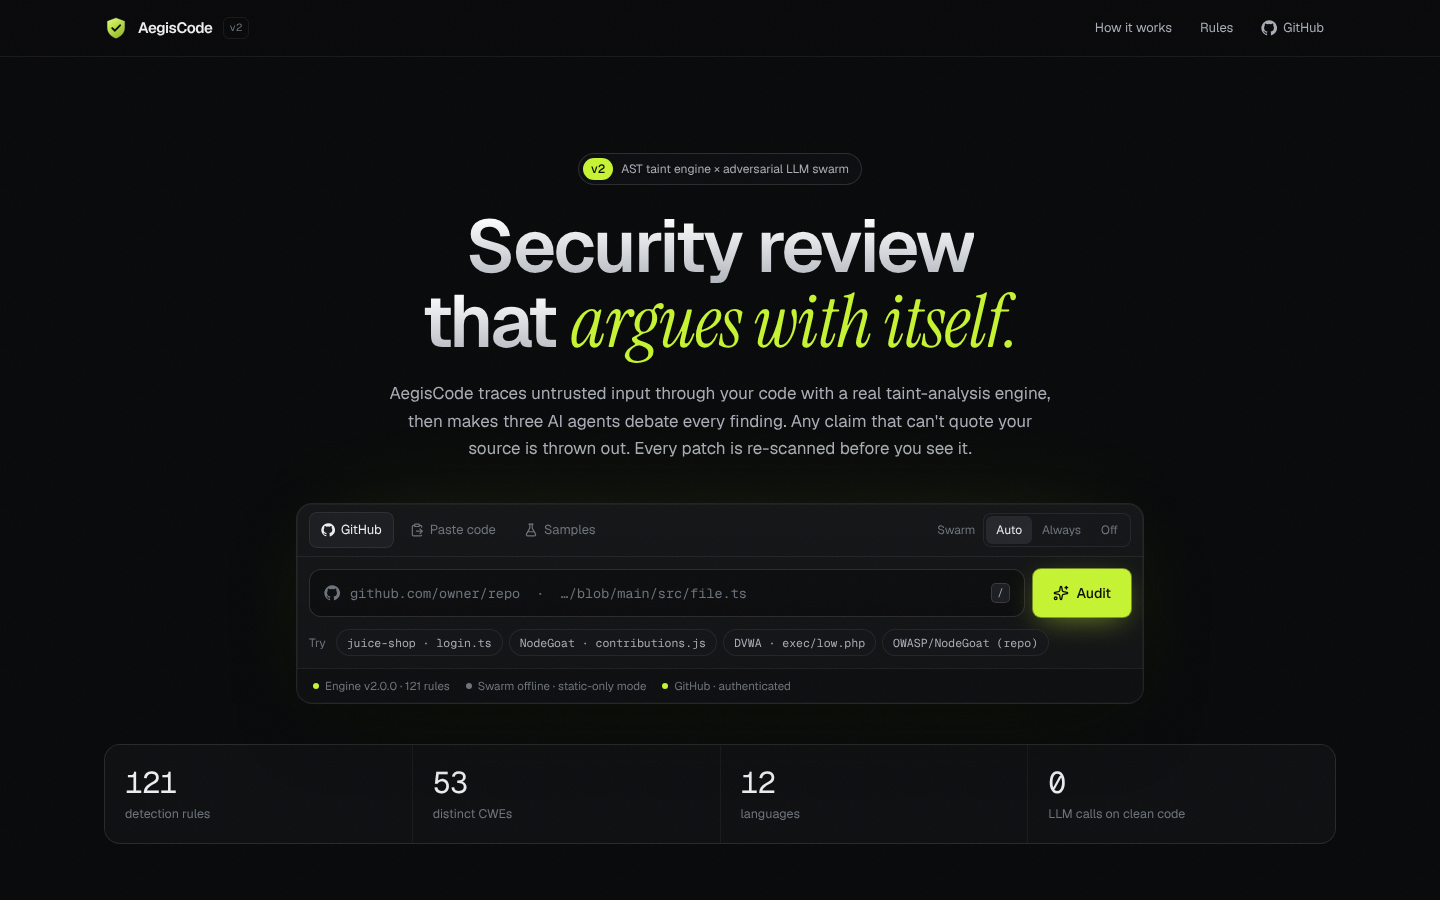
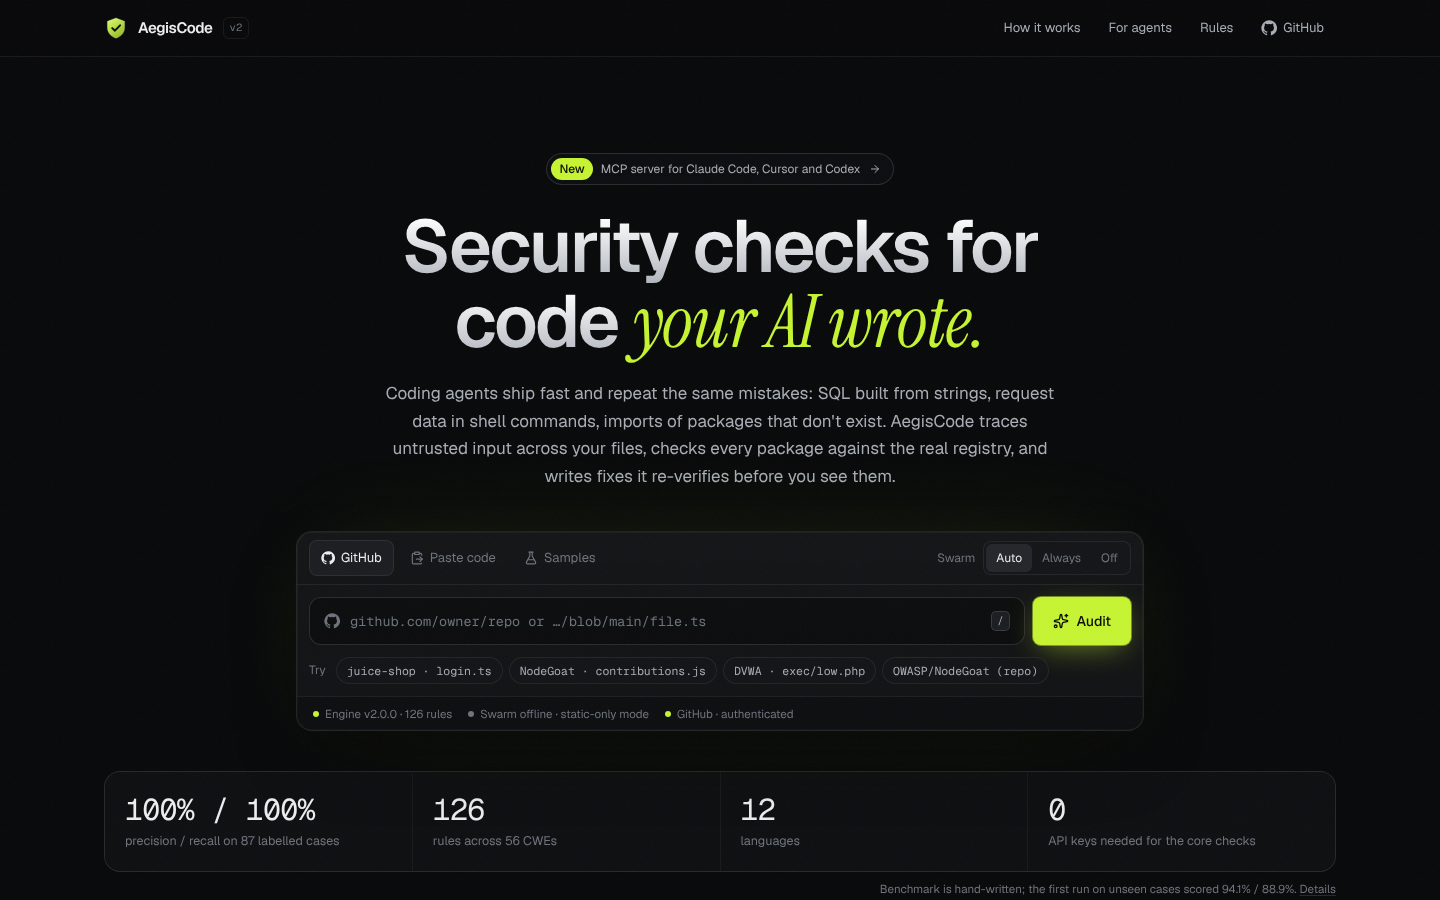
update README and screenshots

diff --git a/README.md b/README.md
@@ -4,57 +4,166 @@
 
 # AegisCode
 
-Security review that argues with itself.
+Security checks for code your AI wrote.
 
 [![CI](https://github.com/Wali05/AegisCode/actions/workflows/ci.yml/badge.svg)](https://github.com/Wali05/AegisCode/actions/workflows/ci.yml)
 ![Next.js 16](https://img.shields.io/badge/Next.js-16-black?logo=next.js)
 ![TypeScript](https://img.shields.io/badge/TypeScript-strict-3178c6?logo=typescript&logoColor=white)
+![MCP](https://img.shields.io/badge/MCP-server-555)
 ![License](https://img.shields.io/badge/license-MIT-555)
 
 <img src="docs/screenshots/landing.png" alt="AegisCode home page" width="900" />
 
 </div>
 
-AegisCode is a code security scanner. You give it a GitHub file, a whole repo, or some pasted code, and it tells you what's exploitable, how the attacker's input gets there, and how to fix it.
+Most of the code I write now starts life in Claude Code or Cursor. It's fast, and it's usually fine, but the mistakes these agents make are always the same few: a SQL string built with `+`, a request field dropped into `exec`, a redirect to whatever `?next=` says, and every so often an import of a package that doesn't exist. That last one is worse than it sounds. People register those made-up names on npm and wait for someone to install them (it's called slopsquatting).
 
-The first version of this project was basically a prompt: fetch a file, send it to Gemini three times, print whatever came back. It looked impressive in a demo, but the output had made-up line numbers and confident claims about code that didn't exist. So I rewrote it around a simple rule: **the model only gets to argue about evidence the code itself can prove.**
+AegisCode is the check I wanted between the agent and the commit. It's a static analyser that follows untrusted input across files, checks every new import against the real npm and PyPI registries, and only suggests a fix after re-scanning the patched code to confirm the issue is actually gone. It runs as an **MCP server** your agent can call, a **pre-commit hook**, a **CI step**, and a **web app** for looking at any GitHub repo.
 
-## How it works
+It started as a weekend "send the file to Gemini" project. The output looked impressive until you checked it: line numbers that didn't exist, confident claims about code that wasn't there. So I rebuilt it around one rule: **anything it reports has to be something the code itself can prove.** The analyser does the work. The language model is optional, and it can only argue about findings the analyser already has evidence for.
 
-There are four stages:
+## What it does
 
-1. **Static analysis.** A real analyser, no AI involved. It parses the code with the TypeScript compiler and tracks untrusted input (`req.query`, `request.json()`, `location.hash`, …) until it hits something dangerous (`db.query`, `exec`, `fetch`, `innerHTML`, …). It follows values through variables, string building, callbacks and calls into other functions in the same file, so a finding comes with the full path, not just a line number. On top of that there are ~120 pattern rules across 12 languages, a secret scanner, a dependency check against OSV.dev, and some complexity and performance checks.
-2. **Triage.** A small, transparent scoring model looks at what the analyser found and decides whether it's worth spending LLM calls on the file. Clean files never touch a model. The UI shows every signal and its weight, so you can see why.
-3. **The debate (optional).** If a Gemini key is configured, three agents go through the findings:
-   - the **Critic** tries to break the code and has to quote the exact lines it's talking about,
-   - the **Defender** pushes back on false positives and proposes fixes,
-   - the **Judge** rules on each claim and writes a patched version of the file.
+### Follows data across files
 
-   Before the debate starts, every quote the Critic made is checked against the real file. If the code it quoted isn't there, the claim is thrown out. The UI marks those as "hallucination blocked".
-4. **Verification.** The Judge's patch gets compiled and re-scanned by the same analyser, so the before/after score is measured rather than taken on trust.
+The analyser parses JS/TS with the TypeScript compiler and tracks values from where an attacker controls them (`req.query`, `request.json()`, `location.hash`, `process.argv`, …) to where they become dangerous (`db.query`, `exec`, `fetch`, `innerHTML`, `res.redirect`, …). It goes through variables, string building, callbacks, class fields and function calls, and it follows imports: ES modules, `require`, default exports, aliases, and barrel files that re-export from somewhere else.
 
-Everything streams to the browser as it happens over server-sent events, so the progress you see is the real pipeline.
+```
+api.ts      app.get("/s", async (req, res) => res.json(await search(req.query.q)));
+service.ts  return run("SELECT * FROM docs WHERE body LIKE '%" + q + "%'");
+repo.ts     return pool.query(sql);
+```
+
+```
+CRITICAL SQL injection: HTTP request input (from api.ts) → line 2
+         repo.ts:2  AEG-TAINT-SQL  CWE-89  conf 77%
+         api.ts:2 HTTP request input → api.ts:2 passed to search() in service.ts
+         → service.ts:3 concatenated into string → service.ts:3 passed to run() in repo.ts
+         → L2 reaches sql injection sink
+```
+
+It also understands the checks people actually write before using input: allowlists (`ALLOWED.has(x)`), anchored regexes, `typeof` checks, equality against constants, `startsWith("/")` on paths, `isValidX()` and `validateX()` helpers, and ternaries. If the dangerous call is only reachable after one of those, it isn't reported. This removed most of the false positives I was getting from real projects.
+
+Python and PHP use a simpler line-by-line version of the same idea. Go, Java, Ruby, C#, Rust, C/C++ and shell get pattern rules.
+
+### Catches packages that don't exist
+
+Every import and manifest entry that isn't a well-known package gets looked up on npm or PyPI. It flags:
+
+| Rule | What it means |
+|---|---|
+| `AEG-PKG-001` | The package doesn't exist. Almost always an invented name. |
+| `AEG-PKG-002` | The name is one or two edits away from a popular package (`lodahs`, `reqeusts`, `expresss`). |
+| `AEG-PKG-003` | The first release was less than 30 days ago. |
+| `AEG-PKG-004` | The package runs a script when it's installed. |
+| `AEG-PKG-005` | The version is deprecated or yanked. |
+
+If the registry can't be reached, those packages are listed as "not checked", not as fine. Vulnerable versions of real packages are a separate check against OSV.dev, with CVSS scores and the version that fixes each one.
+
+<img src="docs/screenshots/supply.png" alt="Supply chain tab" width="900" />
+
+### Suggests fixes, and checks them first
+
+For the common cases there's a fix: parameterised SQL, `textContent` instead of `innerHTML`, `path.basename` for file paths, `String()` around Mongo filter values, local-only redirects, and turning TLS verification back on. Each fix is applied to a copy of the file, which is then scanned again. It's only shown as verified if the issue is gone from that line *and* nothing new appeared. The fixers are deliberately conservative: if the SQL isn't a plain query string, or the "user input" is a table name in an `ORDER BY`, there's no fix, because the honest answer there is "rewrite this".
+
+<img src="docs/screenshots/fix.png" alt="A finding with a verified fix" width="900" />
+
+`aegis scan --fix` applies the verified ones to your files.
+
+### Only reports what you just added
+
+Nobody fixes 300 old findings before their next commit, so the agent-facing modes only report issues the current change introduces. `--staged`, `--changed` and `--since main` scan the changed files plus the local files they import (so a flow that crosses into an unchanged helper still shows up), then compare against the same files before the change. Findings are matched on rule, file and the text of the line rather than the line number, so moving code around doesn't make old issues look new. For a whole-repo scan you can save a baseline once and compare against that.
+
+### The rest
+
+- **Secrets:** AWS, GitHub, Stripe, OpenAI, Anthropic, Slack and private keys, plus an entropy check on anything assigned to `password`, `token`, `apiKey` and similar. Values are masked before they reach a report.
+- **Pattern rules:** 126 rules in total, covering disabled TLS checks, weak crypto, `pickle.loads`, `shell=True`, Flask debug mode, wildcard CORS, `gets()` and so on. Every rule maps to a CWE and to the OWASP Top 10 (2025). The full list is at `/rules` in the app.
+- **Code health:** O(n²) lookups in loops, `await` in loops, caches that grow forever, React effects without cleanup, and functions too complex to review.
+- **Optional AI review:** with a Gemini key, three agents go over the findings in the web app. A Critic attacks the code, a Defender argues against false positives, and a Judge rules and writes a patch. Every line the Critic quotes is checked against the real file first, and invented quotes are thrown out. The Judge's patch is re-scanned so the before/after score is measured.
+
+## How accurate is it?
+
+`bench/` holds 87 small hand-labelled cases: 52 vulnerable, and 35 safe ones written to look dangerous (validated input, parameterised queries, allowlisted redirects). `npm run bench` runs them and writes [bench/RESULTS.md](bench/RESULTS.md).
+
+It currently gets all 87 right. That number flatters it, though: I wrote most of those cases while tuning the engine, so they work as a regression suite more than an independent score. To keep myself honest, I wrote 26 more cases *after* the engine was done and ran them once before changing anything. That first run scored **94.1% precision and 88.9% recall**: one false alarm and two misses. Those three are fixed now, so the held-out set passes too. Treat roughly 90% as the realistic number on code it hasn't seen. The test suite fails if either score drops below 95% on the full set.
+
+## Using it with a coding agent
+
+Clone it once somewhere on your machine:
+
+```bash
+git clone https://github.com/Wali05/AegisCode.git ~/aegiscode
+cd ~/aegiscode && npm ci
+```
+
+Then add it as an MCP server. For Claude Code:
+
+```bash
+claude mcp add aegiscode -- node ~/aegiscode/bin/aegis.mjs mcp
+```
+
+Cursor (`.cursor/mcp.json`) and Codex (`~/.codex/config.toml`) take the same command and arguments. The [/agents](src/app/agents/page.tsx) page in the app has copy-paste config for each.
+
+<img src="docs/screenshots/agents.png" alt="Agent setup page" width="900" />
+
+The server exposes five tools:
+
+| Tool | What it's for |
+|---|---|
+| `scan_changes` | Scans staged, uncommitted or since-branch changes and returns only the new issues. This is the one to call before committing. |
+| `scan_code` | Scans file contents before they're written to disk. |
+| `check_packages` | Checks package names before the agent adds them. |
+| `scan_paths` | Scans files or folders inside the project. |
+| `explain_rule` | Explains a rule ID and how to fix it. |
+
+Results come back as plain text written for the agent, with the data flow and the verified fix when there is one. Then add a line to your `CLAUDE.md` or `AGENTS.md` telling it to call `scan_changes` before committing and `check_packages` before adding a dependency.
+
+Since agents don't always follow instructions, there's also a git hook:
+
+```bash
+cd your-project
+node ~/aegiscode/bin/aegis.mjs hook install
+```
+
+It scans staged changes and blocks the commit if they add anything high or critical (`AEGIS_FAIL_ON=medium` makes it stricter). `git commit --no-verify` skips it once.
+
+## CLI
+
+```bash
+node bin/aegis.mjs scan src                         # scan a folder
+node bin/aegis.mjs scan --staged                    # what you're about to commit, new issues only
+node bin/aegis.mjs scan --since origin/main         # everything on this branch
+node bin/aegis.mjs scan . --write-baseline aegis-baseline.json
+node bin/aegis.mjs scan . --baseline aegis-baseline.json --fail-on high
+node bin/aegis.mjs scan src --fix                   # apply verified fixes
+node bin/aegis.mjs scan src --sarif aegis.sarif     # for GitHub Code Scanning
+```
+
+It can also write `--json` and `--md`, and `--no-deps` skips everything that needs the network. In a pull request workflow, `--since origin/main --sarif aegis.sarif --fail-on high` fails the check only for issues the PR introduces, and the SARIF upload puts them inline on the diff. This repo runs the scanner on its own source in [CI](.github/workflows/ci.yml).
+
+To silence a false positive, leave a comment with a reason:
+
+```ts
+// aegis-ignore AEG-JS-010 -- md5 is only used as a cache key here
+const key = createHash("md5").update(url).digest("hex");
+```
+
+The finding still appears in reports, marked as dismissed with your reason.
+
+## The web app
+
+The web app is the dashboard for all of this. You can paste code, point it at a GitHub file or a whole repo, or try one of the samples (one of them is a file "written by an agent" that imports two packages that don't exist). Progress streams in live over server-sent events, so what you see is the actual pipeline running.
 
 <table>
 <tr>
-<td width="50%"><img src="docs/screenshots/report.png" alt="Report view" /><br/><sub>Report: score, severity mix, and a finding with its source → sink path.</sub></td>
-<td width="50%"><img src="docs/screenshots/pipeline.png" alt="Pipeline timings" /><br/><sub>Pipeline: the analyser takes milliseconds, the LLM agents take seconds.</sub></td>
+<td width="50%"><img src="docs/screenshots/report.png" alt="Report view" /><br/><sub>A report on the agent-output sample: made-up packages and a path traversal.</sub></td>
+<td width="50%"><img src="docs/screenshots/pipeline.png" alt="Pipeline timings" /><br/><sub>Pipeline timings: the analyser takes milliseconds, the AI review takes seconds.</sub></td>
 </tr>
 <tr>
-<td><img src="docs/screenshots/debate.png" alt="Debate view" /><br/><sub>Debate view. This screenshot uses the scripted model from the test suite.</sub></td>
-<td><img src="docs/screenshots/patch.png" alt="Patch view" /><br/><sub>Patch view, same test data.</sub></td>
+<td><img src="docs/screenshots/debate.png" alt="Debate view" /><br/><sub>The optional AI review (scripted model from the test suite).</sub></td>
+<td><img src="docs/screenshots/patch.png" alt="Patch view" /><br/><sub>The Judge's patch, re-scanned (same test data).</sub></td>
 </tr>
 </table>
-
-## What it catches
-
-- **Injection through data flow** (JS/TS, Python, PHP): SQL and NoSQL injection, command and code injection, SSRF, path traversal, open redirects, DOM and reflected XSS, template injection, prototype pollution, ReDoS, unsafe deserialisation.
-- **Dangerous patterns** in JS/TS, Python, Go, Java/Kotlin, PHP, Ruby, C#, Rust, C/C++ and shell, such as disabled TLS checks, weak crypto, `gets()`, `pickle.loads`, `shell=True`, Flask debug mode and wildcard CORS. Every rule maps to a CWE and to the OWASP Top 10 (2025). The full list lives at `/rules` in the app.
-- **Leaked secrets:** AWS, GitHub, Stripe, OpenAI, Anthropic, Slack and private keys, plus an entropy check for anything assigned to a variable called `password`, `token`, `apiKey` and so on. Values are masked before they reach the report.
-- **Vulnerable dependencies:** npm, PyPI, Go, crates.io, RubyGems and Packagist manifests and lockfiles, checked against OSV.dev, with CVSS scores and the version that fixes each issue.
-- **Code health:** O(n²) lookups inside loops, `await` inside loops, caches that never get cleared, React effects that never clean up, and functions that are too complex to review properly.
-
-## Running it
 
 ```bash
 git clone https://github.com/Wali05/AegisCode.git
@@ -64,85 +173,56 @@ cp .env.example .env.local
 npm run dev
 ```
 
-Then open http://localhost:3000. The **Samples** tab has a few deliberately broken files to try, or paste one of these:
-
-- `https://github.com/juice-shop/juice-shop/blob/master/routes/login.ts`
-- `https://github.com/OWASP/NodeGoat/blob/master/app/routes/contributions.js`
-- `https://github.com/digininja/DVWA/blob/master/vulnerabilities/exec/source/low.php`
-
-All environment variables are optional:
+Every environment variable is optional:
 
 | Variable | What it does |
 |---|---|
-| `GEMINI_API_KEY` | Turns on the Critic / Defender / Judge debate. Without it you still get the full analysis. |
+| `GEMINI_API_KEY` | Turns on the AI review. Without it you still get everything else. |
 | `GEMINI_MODEL` | Defaults to `gemini-flash-latest`. |
-| `GITHUB_TOKEN` | Raises GitHub's limit from 60 to 5,000 requests an hour and lets you scan private repos (read-only access is enough). |
-| `MAX_REPO_FILES` | How many files to scan per repo (default 40). It picks the ones most likely to matter: routes, auth, database code and so on. |
+| `GITHUB_TOKEN` | Raises GitHub's limit from 60 to 5,000 requests an hour and allows private repos (read-only is enough). |
+| `MAX_REPO_FILES` | Files to scan per repo (default 40). It picks the ones most likely to matter: routes, auth, database code. |
 | `RATE_LIMIT_PER_10_MIN` | Audits allowed per IP (default 12). |
-
-## Using it in CI
-
-The analyser doesn't depend on Next.js, so there's a small CLI too:
-
-```bash
-npm run scan -- src --sarif aegis.sarif --fail-on high
-```
-
-```
-CRITICAL SQL injection: HTTP request input → line 34
-         login.ts:34  AEG-TAINT-SQL  CWE-89  conf 86%
-         L34 HTTP request input → L34 interpolated into string → L34 reaches sql injection sink
-
-aegis 3 files · 187 lines · score 49 (D) · 6 critical · 0 high · 0 medium · 0 low · 0 info · 81 ms
-✖ 6 findings at or above high
-```
-
-It writes SARIF (which GitHub Code Scanning understands), Markdown or JSON. It exits with code 1 if anything is at or above `--fail-on`. This repo runs it on its own source in [CI](.github/workflows/ci.yml).
-
-If a finding is a false positive, you can silence it with a comment and a reason:
-
-```ts
-// aegis-ignore AEG-JS-010 -- md5 is only used as a cache key here
-const key = createHash("md5").update(url).digest("hex");
-```
-
-The finding is still listed in the report, marked as dismissed, together with the reason you gave.
 
 ## Project layout
 
 ```
 src/
-  lib/engine/     the analyser (lexer, taint tracking, rules, secrets, metrics, scoring)
-  lib/swarm/      Gemini provider, response schemas, quote checking, the three agents
-  lib/deps/       manifest parsing, OSV client, CVSS calculation
-  lib/github.ts   URL parsing, branch resolution, picking which repo files to scan
-  lib/pipeline.ts runs everything in order and emits progress events
-  app/api/audit   streaming endpoint (validated input, rate limited, cached)
-  components/     the UI
-  cli/            the `aegis scan` command
-tests/            vitest
+  lib/engine/       the analyser: lexer, taint tracking (per file and across files), rules, secrets, fixes, scoring
+  lib/deps/         manifests, OSV advisories, CVSS, the npm / PyPI package check
+  lib/swarm/        the optional AI review: Gemini provider, schemas, quote checking, agents
+  lib/baseline.ts   "what's new" comparison
+  lib/pipeline.ts   runs the stages in order and emits progress events
+  cli/              the aegis command, git change scans, the MCP server
+  app/              Next.js pages and the streaming audit API
+  components/       the UI
+bench/              labelled cases and the benchmark runner
+tests/              vitest
 ```
 
-## A few decisions worth explaining
+## Some decisions
 
-- **Why not just use the LLM?** Models are good at judgement calls ("is this endpoint supposed to be public?") and bad at bookkeeping ("which variable did this value come from three functions ago?"). The analyser does the bookkeeping, and the models only weigh in on what it found.
-- **Structured output everywhere.** Each agent's response has to match a schema (built with zod). If it doesn't, the model gets one chance to fix it before the run fails.
-- **Scoring.** A file's score drops faster for a critical than for a pile of minor issues. Any open critical caps it at 59, any open high at 79. A repo's score is a weighted average of its files, so large repos aren't penalised just for being large.
-- **Safety of the tool itself.** It sends a strict CSP and other security headers, validates every input, never fetches a URL the user picked (only GitHub and OSV), escapes code before rendering it, and masks secrets before they leave the analyser.
+- **Why not just ask a model?** Models are good at judgement ("is this endpoint meant to be public?") and bad at bookkeeping ("which variable did this come from three files ago?"). A checkpoint that runs on every commit has to be fast, free, deterministic and right about line numbers, so the core is a plain analyser.
+- **Fixes have to earn the word "verified".** A suggestion that compiles but doesn't remove the issue, or that introduces a new one, is worse than no suggestion. So each one is re-scanned, and a fixer refuses to run when it isn't sure.
+- **"Not checked" is not "fine".** If npm is down, the report says so rather than quietly passing.
+- **Scoring.** A file's score drops faster for one critical than for a pile of minor issues. An open critical caps it at 59, an open high at 79. A repo's score is a size-weighted average of its files, so big repos aren't penalised for being big.
+- **The tool's own security.** It sends a strict CSP, validates every input, only fetches from GitHub, OSV and the package registries (never a URL you typed), and escapes code before rendering it.
 
 ## Limitations
 
-- Data flow tracking stays inside a single file; it doesn't follow imports.
-- It doesn't understand guard checks, so `if (!ALLOWED.has(host)) return` won't clear a finding. This is why findings carry a confidence value.
-- Python and PHP get a simpler line-by-line analysis instead of a full parser.
-- The cache and rate limiter live in memory, which is fine for one server but would need Redis behind a load balancer.
+- Cross-file tracking covers JS/TS. Python and PHP flows stay inside one file and use the lighter line-based analysis.
+- It doesn't run your code, so anything decided at runtime (dynamic `require`, values from a database, framework magic it doesn't know about) is invisible to it.
+- The guard detection covers the common patterns, not every possible validation, which is why findings carry a confidence value.
+- The package check needs network access. In a locked-down environment those packages are reported as not checked.
+- The benchmark is mine. It's small and I wrote it, so read the held-out number, not the headline one.
+- The web app's cache and rate limiter are in memory. That's fine for one server, but more than one would need something like Redis.
 
 ## Scripts
 
 ```bash
 npm run dev        # dev server
-npm test           # test suite
+npm test           # tests
 npm run check      # lint + typecheck + tests
+npm run bench      # accuracy benchmark → bench/RESULTS.md
 npm run build      # production build
 npm run scan -- .  # CLI
 ```
